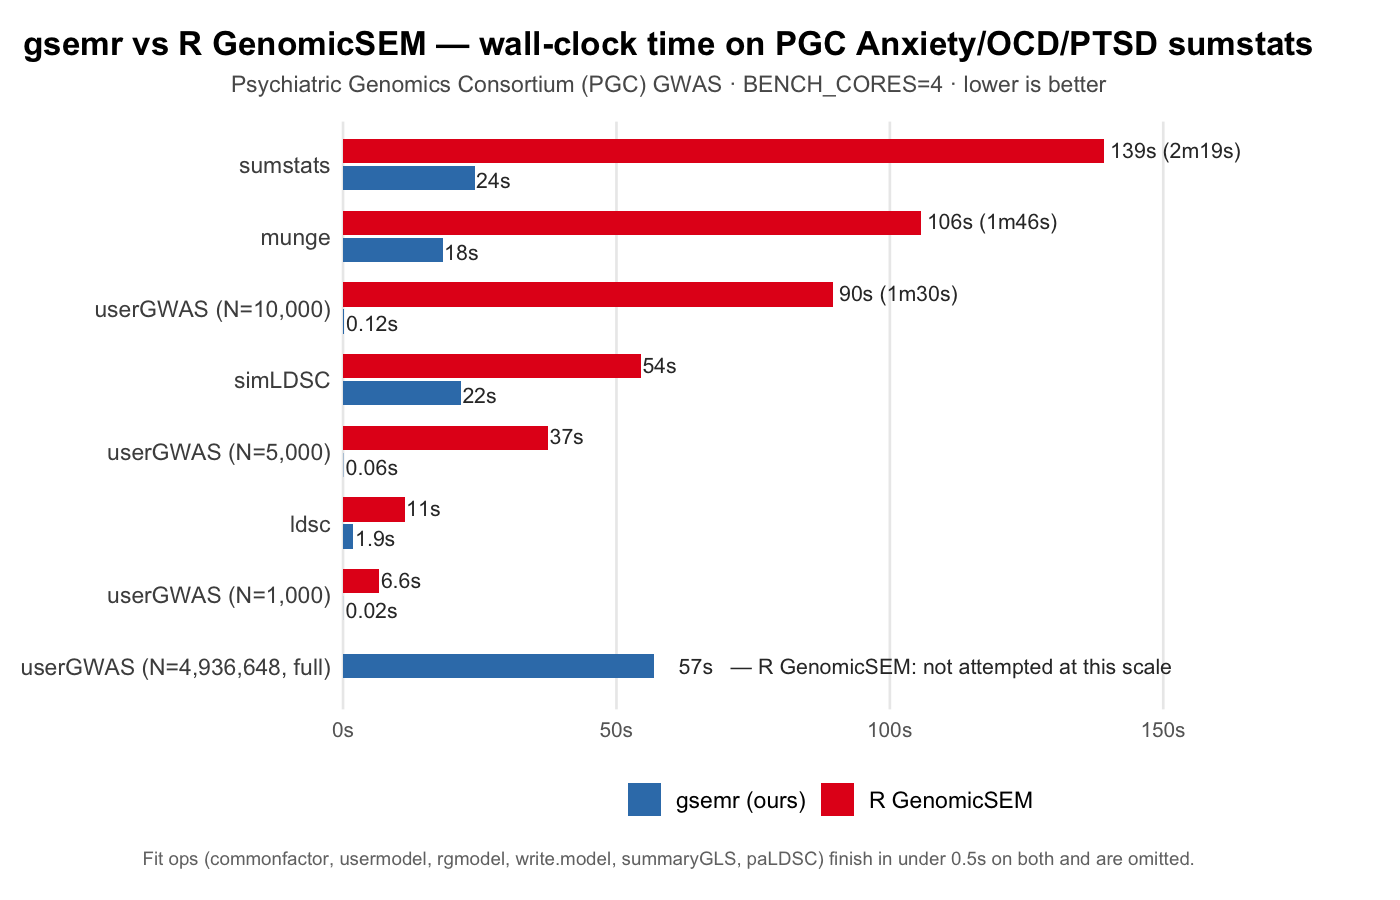
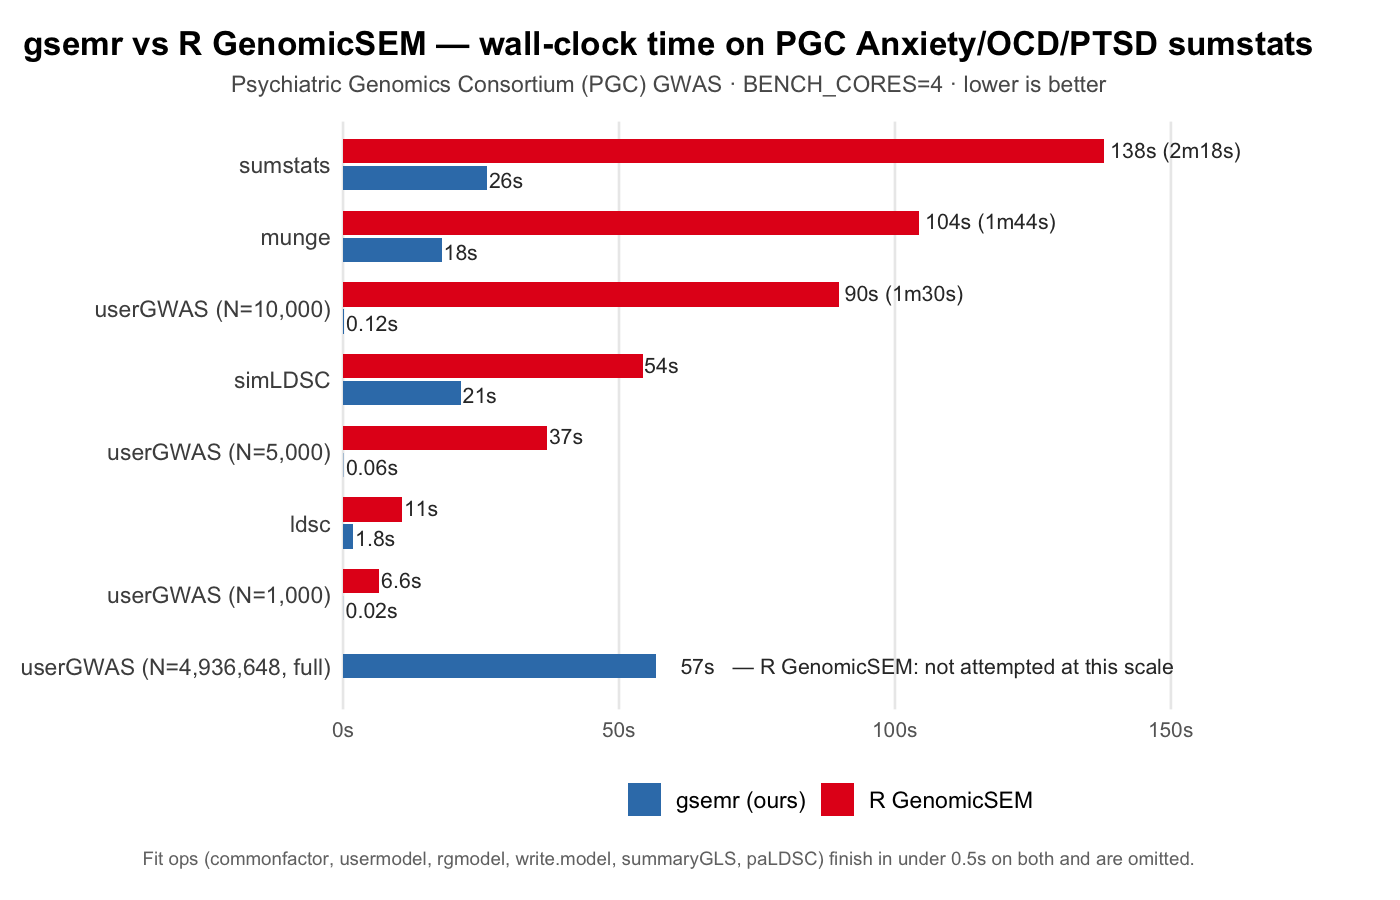
Clean up stale WIP: citations, diag script, headline plot, roxygen bump
Bundle the six files that have been sitting in the working tree
through the v0.1.0 rollout into a single pre-0.1.1 commit:

README.md
  * Typo fix: 'GrGrotzinger' -> 'Grotzinger' in the citation line
    (landed duplicated from the 75888fc APA reformat).

bindings/python/README.md
bindings/r/README.md
  * Expand the Citation block from the one-line "Nat Genet 51"
    stub (wrong journal: the paper is in Nature human behaviour,
    not Nat Genet) to the full APA entry that the root README
    already carries, with the DOI. Keeps the three README
    citation blocks in sync.

bindings/r/DESCRIPTION
  * RoxygenNote: 7.3.0 -> 7.3.3. Matches the roxygen version the
    local regeneration runs use when regenerating man/*.Rd
    — without this bump, every `roxygen2::roxygenise()` invocation
    would race to rewrite DESCRIPTION.

bench/benchmark_headline.png
  * Regenerated from benchmark_results.csv after the
    f1716e4 "gsemr (ours)" rename + missing-R-label-collision fix,
    matching the numbers already in the README table.

bench/diag_cfgwas_vs_usergwas.R
  * Add the standalone diagnostic script that reproduces the
    commonfactorGWAS vs userGWAS output divergence on the PGC
    3-trait batch. Caches covstruc / sumstats under bench/cache
    to avoid re-running ldsc and sumstats on every invocation,
    then runs both GWAS paths against the same SNP batch and
    joins the F1 ~ SNP effects for side-by-side comparison.
[…]

diff --git a/README.md b/README.md
@@ -245,7 +245,7 @@ cd bench && Rscript benchmark_perf.R  # R vs gsemr comparison
 
 If you use this software, please cite the original GenomicSEM paper:
 
-> GrGrotzinger, A. D., Rhemtulla, M., de Vlaming, R., Ritchie, S. J., Mallard, T. T., Hill, W. D., Ip, H. F., Marioni, R. E., McIntosh, A. M., Deary, I. J., Koellinger, P. D., Harden, K. P., Nivard, M. G., & Tucker-Drob, E. M. (2019). Genomic structural equation modelling provides insights into the multivariate genetic architecture of complex traits. Nature human behaviour, 3(5), 513–525. https://doi.org/10.1038/s41562-019-0566-x
+> Grotzinger, A. D., Rhemtulla, M., de Vlaming, R., Ritchie, S. J., Mallard, T. T., Hill, W. D., Ip, H. F., Marioni, R. E., McIntosh, A. M., Deary, I. J., Koellinger, P. D., Harden, K. P., Nivard, M. G., & Tucker-Drob, E. M. (2019). Genomic structural equation modelling provides insights into the multivariate genetic architecture of complex traits. Nature human behaviour, 3(5), 513–525. https://doi.org/10.1038/s41562-019-0566-x
 
 ## License
 

diff --git a/bindings/python/README.md b/bindings/python/README.md
@@ -101,7 +101,7 @@ Every exported function has a worked example in its docstring — run
 
 ## Citation
 
-> Grotzinger, A.D. et al. Genomic structural equation modelling provides insights into the multivariate genetic architecture of complex traits. *Nat Genet* 51, 513–520 (2019).
+> Grotzinger, A. D., Rhemtulla, M., de Vlaming, R., Ritchie, S. J., Mallard, T. T., Hill, W. D., Ip, H. F., Marioni, R. E., McIntosh, A. M., Deary, I. J., Koellinger, P. D., Harden, K. P., Nivard, M. G., & Tucker-Drob, E. M. (2019). Genomic structural equation modelling provides insights into the multivariate genetic architecture of complex traits. Nature human behaviour, 3(5), 513–525. https://doi.org/10.1038/s41562-019-0566-x
 
 ## License
 

diff --git a/bindings/r/README.md b/bindings/r/README.md
@@ -79,7 +79,7 @@ Numerically identical results (S matrix max diff: 1.7e-5).
 
 ## Citation
 
-> Grotzinger, A.D. et al. Genomic structural equation modelling provides insights into the multivariate genetic architecture of complex traits. *Nat Genet* 51, 513–520 (2019).
+> Grotzinger, A. D., Rhemtulla, M., de Vlaming, R., Ritchie, S. J., Mallard, T. T., Hill, W. D., Ip, H. F., Marioni, R. E., McIntosh, A. M., Deary, I. J., Koellinger, P. D., Harden, K. P., Nivard, M. G., & Tucker-Drob, E. M. (2019). Genomic structural equation modelling provides insights into the multivariate genetic architecture of complex traits. Nature human behaviour, 3(5), 513–525. https://doi.org/10.1038/s41562-019-0566-x
 
 ## License
 
